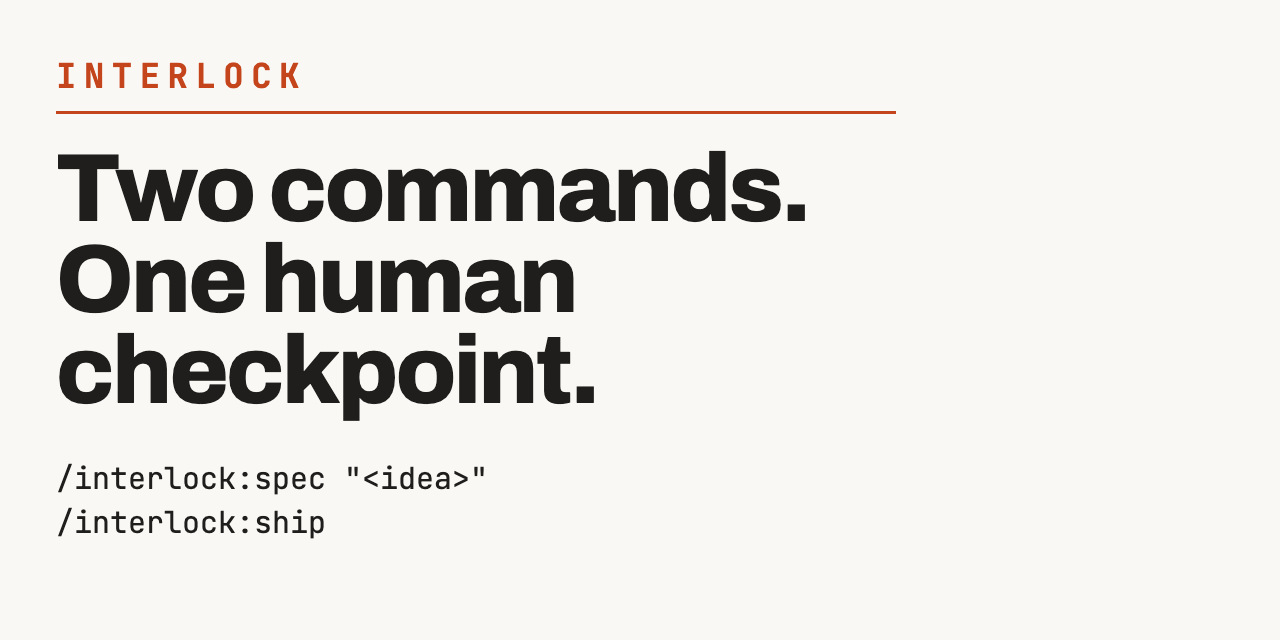
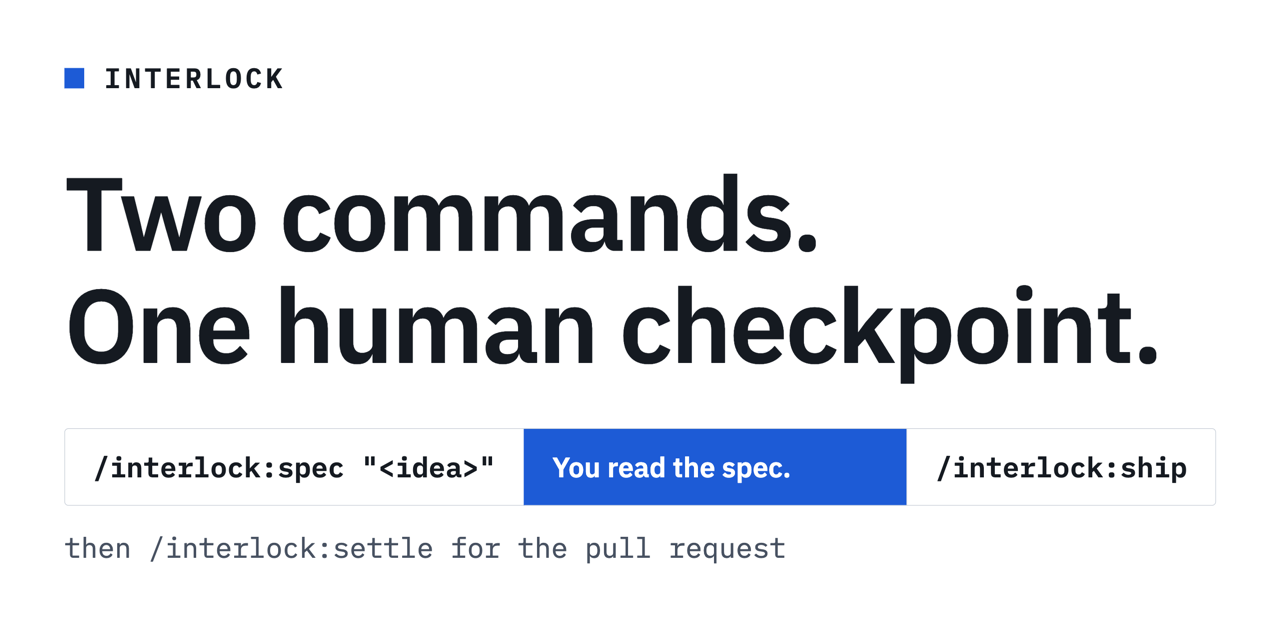
docs(readme): add the guard and settle proof frames and a new social card
Summary of changes:
- Added the guard-tests denial frame to "Why Interlock" (light and dark, with alt text)
- Replaced the shortened PR #33 verdict quote with the full settle-verdict frame
- Replaced the social card with the cobalt version that names settle, in docs/ and site/
- Removed the one-off Claude Design prompts for these exports

Changed region(s): [[0.0312, 0.2188, 0.9375, 0.875], [0.0312, 0.0938, 0.6875, 0.1875]]

diff --git a/README.md b/README.md
@@ -22,8 +22,8 @@ Spec-driven development for [Claude Code](https://claude.com/claude-code), on [O
                            # ← you read it. The only required stop.
 /interlock:ship            # parallel agents → your tests pass → one commit. Asks nothing.
 
-/interlock:settle --create --review   # draft PR → review → fix → re-review → verdict
-                                      # ← you press merge. Interlock never does.
+/interlock:settle          # draft PR → review → fix → re-review → verdict
+                           # ← you press merge. Interlock never does.
 ```
 
 - **One human checkpoint.** A spec is the cheapest place to catch a wrong idea, so it is the one place you must look.
@@ -64,6 +64,14 @@ Other spec tools compete on how much structure you write before coding. Interloc
 - **A dismissal needs a `file:line`.** Reviewers run blind, one per dimension; skeptics must cite the diff to dismiss a blocker or warning (1.15). [06](docs/06-why-it-works.md#7-review-making-dismissal-expensive)
 - **The merge verdict is computed, not opined.** `MERGE`, `HUMAN` or `BLOCK` comes from the CLI. The worst signal wins, and missing evidence counts against you. [15](docs/15-merge-confidence.md)
 - **Nothing is silent, nothing phones home.** `interlock limits` prints every cap, every degradation is a named banner, and Interlock makes no network request of its own (1.15). [04](docs/04-when-it-stops.md)
+
+<p align="center">
+  <picture>
+    <source media="(prefers-color-scheme: dark)" srcset="docs/assets/guard-deny-dark.png">
+    <img src="docs/assets/guard-deny-light.png" alt="Example output of Interlock's guard-tests hook. While a run is fixing a failing check, an edit to test/pricing.test.mjs is denied, with the reason that a run making a failing check pass must fix the code under test, not weaken the check. An edit to src/pricing.mjs is allowed." width="800">
+  </picture>
+</p>
+<p align="center"><sub>The hook's own words, from running it against a throwaway directory. <a href="docs/13-the-guards.md">The guards →</a></sub></p>
 
 **Built with itself.** Every feature here started as a spec and shipped through the same checkpoint: [more than 80 changes](openspec/changes/archive), one folder each.
 
@@ -157,23 +165,14 @@ Every term, defined from the ground up: [09 — From prompt to workflow](docs/09
 
 Its verdict on one of Interlock's own pull requests. It did not flatter us:
 
-> **HUMAN** · score 54 (amber range 40–79; 6 of 17 gating signals clean)
->
-> **Needs a fix**
->
-> - `spec.coverage` (amber): `2 added source file(s) no spec names: lib/review-fanout.mjs, lib/review-scope.mjs`
->
-> **Needs a person**
->
-> - `risk.class` (amber): `class high is outside MERGE_ALLOWED_CLASSES (low, medium), so a person decides`
->
-> **Needs more evidence**
->
-> - `conformance.delta` (amber): `1 of 67 scenario(s) unconfirmed`
->
-> **Labels:** `interlock/human-review`, `interlock/score-54`
+<p align="center">
+  <picture>
+    <source media="(prefers-color-scheme: dark)" srcset="docs/assets/settle-verdict-dark.png">
+    <img src="docs/assets/settle-verdict-light.png" alt="The merge-confidence block /interlock:settle wrote on Interlock's pull request 33: HUMAN, score 54, 6 of 17 gating signals clean. One signal needs a fix (two added source files no spec names), three need a person (risk class high, a diff over the size bands, two open decisions) and three need more evidence. Labels: interlock/human-review and interlock/score-54." width="800">
+  </picture>
+</p>
 
-<sub>Lines quoted verbatim from the description of [#33](https://github.com/renzrollon/interlock/pull/33). The full block is longer.</sub>
+<sub>Every line verbatim from the description of [#33](https://github.com/renzrollon/interlock/pull/33); the signal table and the commit line under it are left out.</sub>
 
 It never merges and never approves: a person presses the button. It needs `gh` or `glab` signed in. The GitHub loop has run end to end; the GitLab lines are not exercised. [15 — Merge confidence](docs/15-merge-confidence.md)
 
